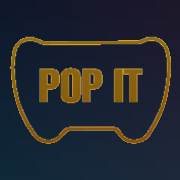
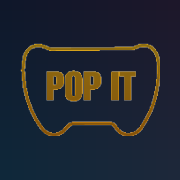
fix: rimosso (24h) dalle storie del pub e ridimensionata l'icona dell'app con margini di sicurezza safe-area

diff --git a/src/views/PubView.tsx b/src/views/PubView.tsx
@@ -320,7 +320,7 @@ export const PubView: React.FC<PubViewProps> = ({
       <div style={{ maxWidth: '640px', margin: '16px auto 0 auto', padding: '0 16px' }}>
         <div style={{ fontSize: '12px', fontWeight: 800, color: '#64748B', marginBottom: '8px', display: 'flex', alignItems: 'center', gap: '4px' }}>
           <span className="material-symbols-outlined" style={{ fontSize: '16px', color: '#F59E0B' }}>auto_awesome</span>
-          STORIE DEL PUB (24H)
+          STORIE DEL PUB
         </div>
         <div
           style={{

diff --git a/src/components/PostOptionsMenuModal.tsx b/src/components/PostOptionsMenuModal.tsx
@@ -161,7 +161,7 @@ export const PostOptionsMenuModal: React.FC<PostOptionsMenuModalProps> = ({
             <span className="material-symbols-outlined" style={{ color: '#F59E0B', fontSize: '22px' }}>
               auto_awesome
             </span>
-            <span>Ricondividi nelle Storie (24h)</span>
+            <span>Ricondividi nelle Storie</span>
           </button>
 
           {/* Segnala Post */}

diff --git a/src/views/ProfileView.tsx b/src/views/ProfileView.tsx
@@ -1247,7 +1247,7 @@ export const ProfileView: React.FC<ProfileViewProps> = ({
                   <span className="material-symbols-outlined" style={{ color: '#F59E0B', fontSize: '22px' }}>
                     auto_awesome
                   </span>
-                  <span>Crea Nuova Storia (24h)</span>
+                  <span>Crea Nuova Storia</span>
                 </button>
               )}
 
